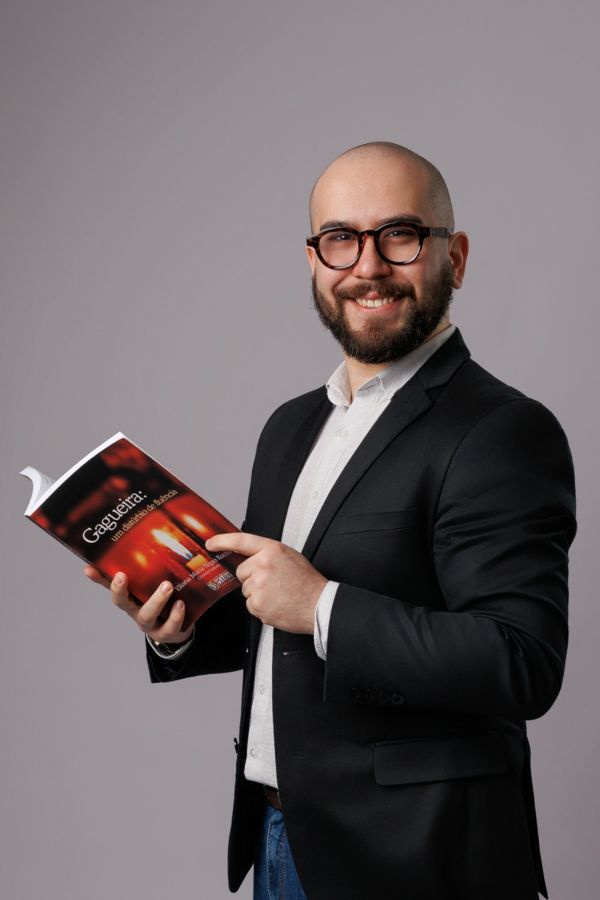
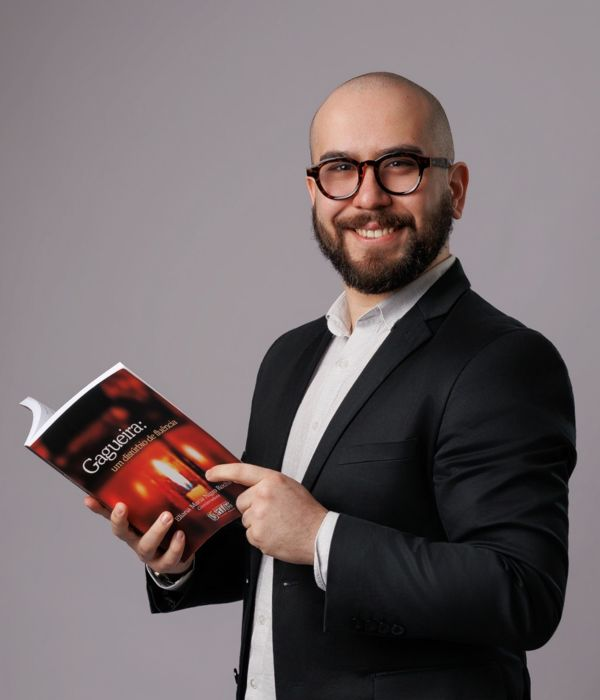
Recorta a foto de perfil da cintura para cima
Também corrige a proporção da foto no celular, que cortava as laterais.

Claude-Session: https://claude.ai/code/session_01SgzU28k9gDZ2mvVRUFm68M

diff --git a/index.html b/index.html
@@ -60,7 +60,7 @@
         </ul>
       </div>
       <div class="hero-photo">
-        <img src="assets/mateus-flores-600.jpg" srcset="assets/mateus-flores-600.jpg 600w, assets/mateus-flores.jpg 1066w" sizes="(max-width: 860px) 380px, 480px" alt="Mateus Flores, fonoaudiólogo, sorrindo e segurando o livro “Gagueira: um distúrbio de fluência”" width="600" height="900">
+        <img src="assets/mateus-flores-600.jpg" srcset="assets/mateus-flores-600.jpg 600w, assets/mateus-flores.jpg 1066w" sizes="(max-width: 860px) 380px, 480px" alt="Mateus Flores, fonoaudiólogo, sorrindo e segurando o livro “Gagueira: um distúrbio de fluência”" width="600" height="700">
       </div>
     </div>
     <div class="container shortcuts">

diff --git a/css/style.css b/css/style.css
@@ -209,7 +209,7 @@ main { min-height: calc(100vh - 72px - 180px); }
 @media (max-width: 600px) { .shortcuts { grid-template-columns: 1fr; } }
 
 /* ===== Foto, destaque e galeria ===== */
-.hero-photo img { aspect-ratio: 2 / 3; object-position: center top; }
+.hero-photo img { height: auto; aspect-ratio: 1066 / 1244; object-position: center top; }
 .card-featured { background: var(--primary); color: #fff; }
 .card-featured p { color: #d9ebe8; }
 .card-featured .icon { background: rgb(255 255 255 / .15); }
